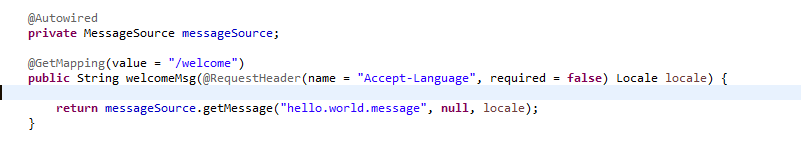
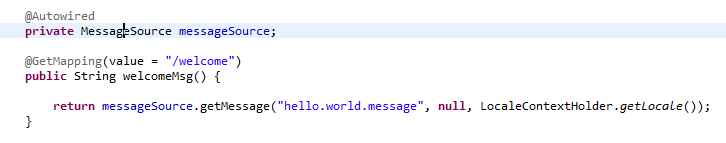
Enhancement

diff --git a/src/main/java/com/star/sud/SpringBootRestServiceInternationalizationApplication.java b/src/main/java/com/star/sud/SpringBootRestServiceInternationalizationApplication.java
@@ -5,9 +5,8 @@ import java.util.Locale;
 import org.springframework.boot.SpringApplication;
 import org.springframework.boot.autoconfigure.SpringBootApplication;
 import org.springframework.context.annotation.Bean;
-import org.springframework.context.support.ResourceBundleMessageSource;
 import org.springframework.web.servlet.LocaleResolver;
-import org.springframework.web.servlet.i18n.SessionLocaleResolver;
+import org.springframework.web.servlet.i18n.AcceptHeaderLocaleResolver;
 
 @SpringBootApplication
 public class SpringBootRestServiceInternationalizationApplication {
@@ -18,17 +17,9 @@ public class SpringBootRestServiceInternationalizationApplication {
 
 	@Bean
 	public LocaleResolver getLocaleResolver() {
-		SessionLocaleResolver localeResolver = new SessionLocaleResolver();
+		AcceptHeaderLocaleResolver localeResolver = new AcceptHeaderLocaleResolver();
 		localeResolver.setDefaultLocale(Locale.US);
 		return localeResolver;
-	}
-
-	@Bean
-	public ResourceBundleMessageSource bundleMessageSource() {
-		ResourceBundleMessageSource messageSource = new ResourceBundleMessageSource();
-		messageSource.setBasename("messages");
-		return messageSource;
-
 	}
 
 }

diff --git a/src/main/java/com/star/sud/controller/HomeController.java b/src/main/java/com/star/sud/controller/HomeController.java
@@ -3,12 +3,10 @@
  */
 package com.star.sud.controller;
 
-import java.util.Locale;
-
 import org.springframework.beans.factory.annotation.Autowired;
 import org.springframework.context.MessageSource;
+import org.springframework.context.i18n.LocaleContextHolder;
 import org.springframework.web.bind.annotation.GetMapping;
-import org.springframework.web.bind.annotation.RequestHeader;
 import org.springframework.web.bind.annotation.RestController;
 
 /**
@@ -22,9 +20,9 @@ public class HomeController {
 	private MessageSource messageSource;
 
 	@GetMapping(value = "/welcome")
-	public String welcomeMsg(@RequestHeader(name = "Accept-Language", required = false) Locale locale) {
+	public String welcomeMsg() {
 
-		return messageSource.getMessage("hello.world.message", null, locale);
+		return messageSource.getMessage("hello.world.message", null, LocaleContextHolder.getLocale());
 	}
 
 }
